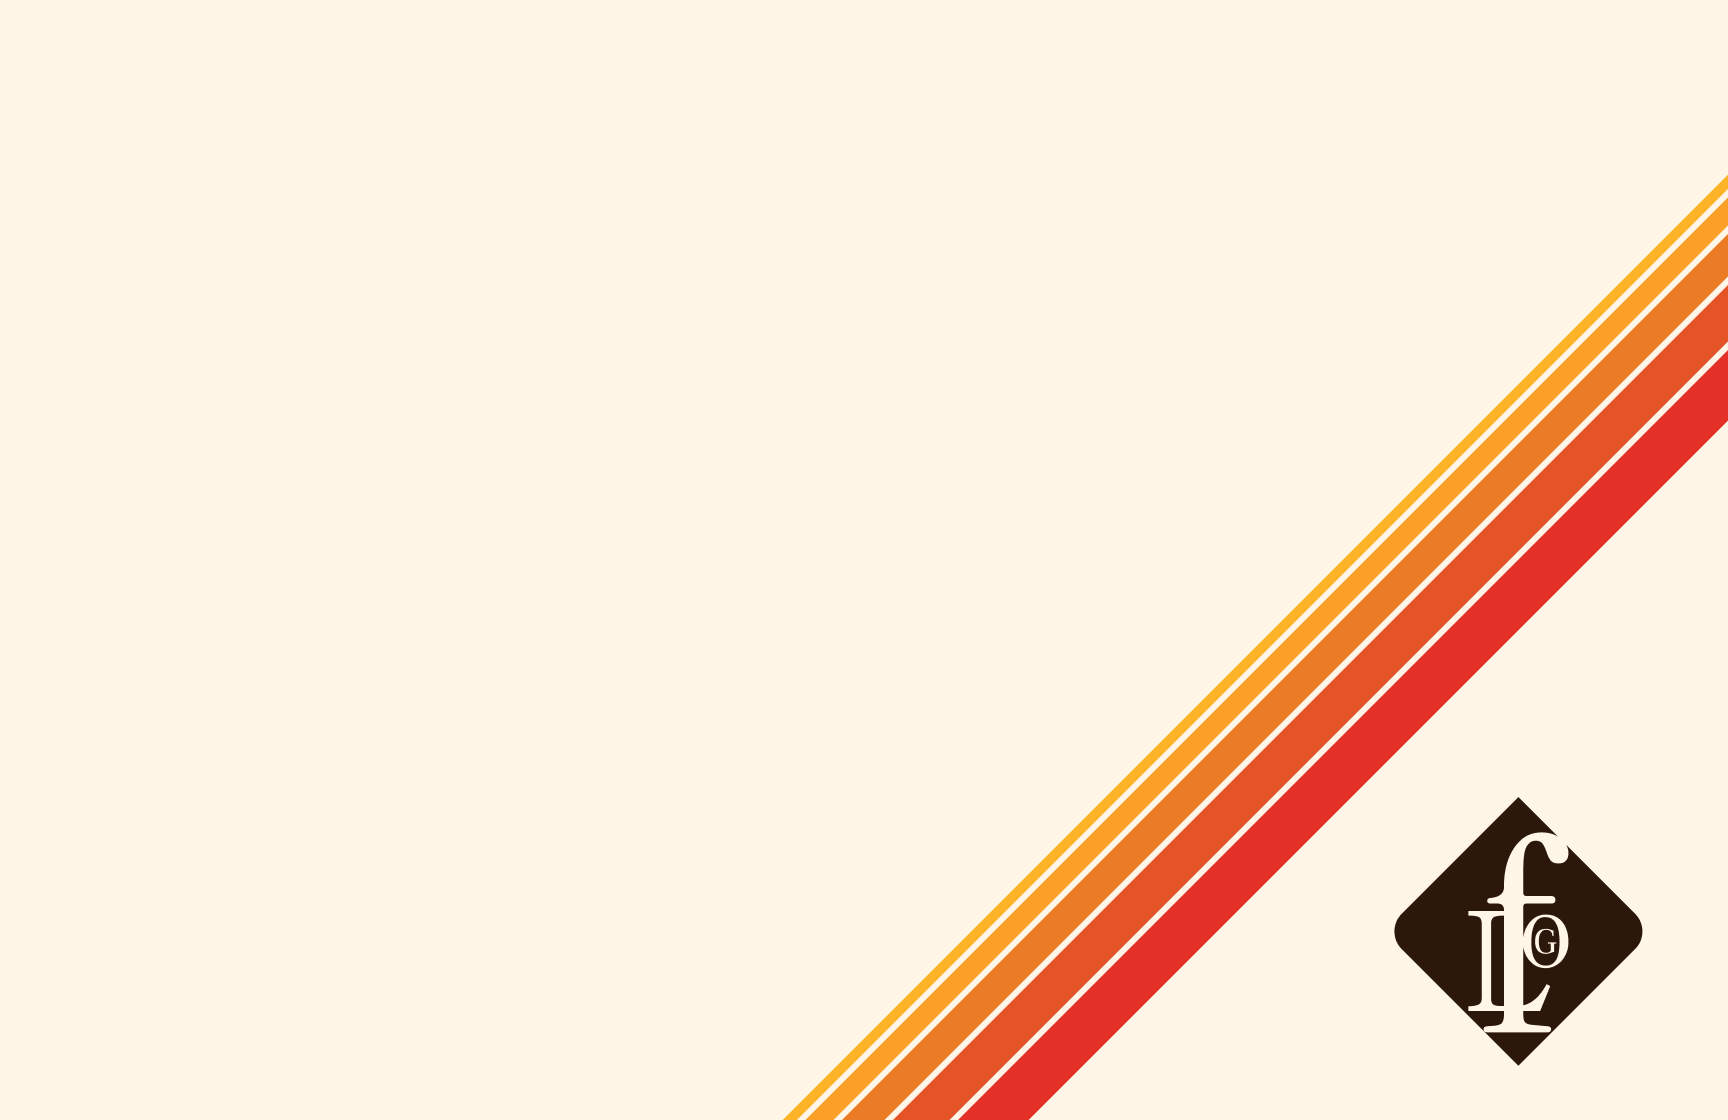
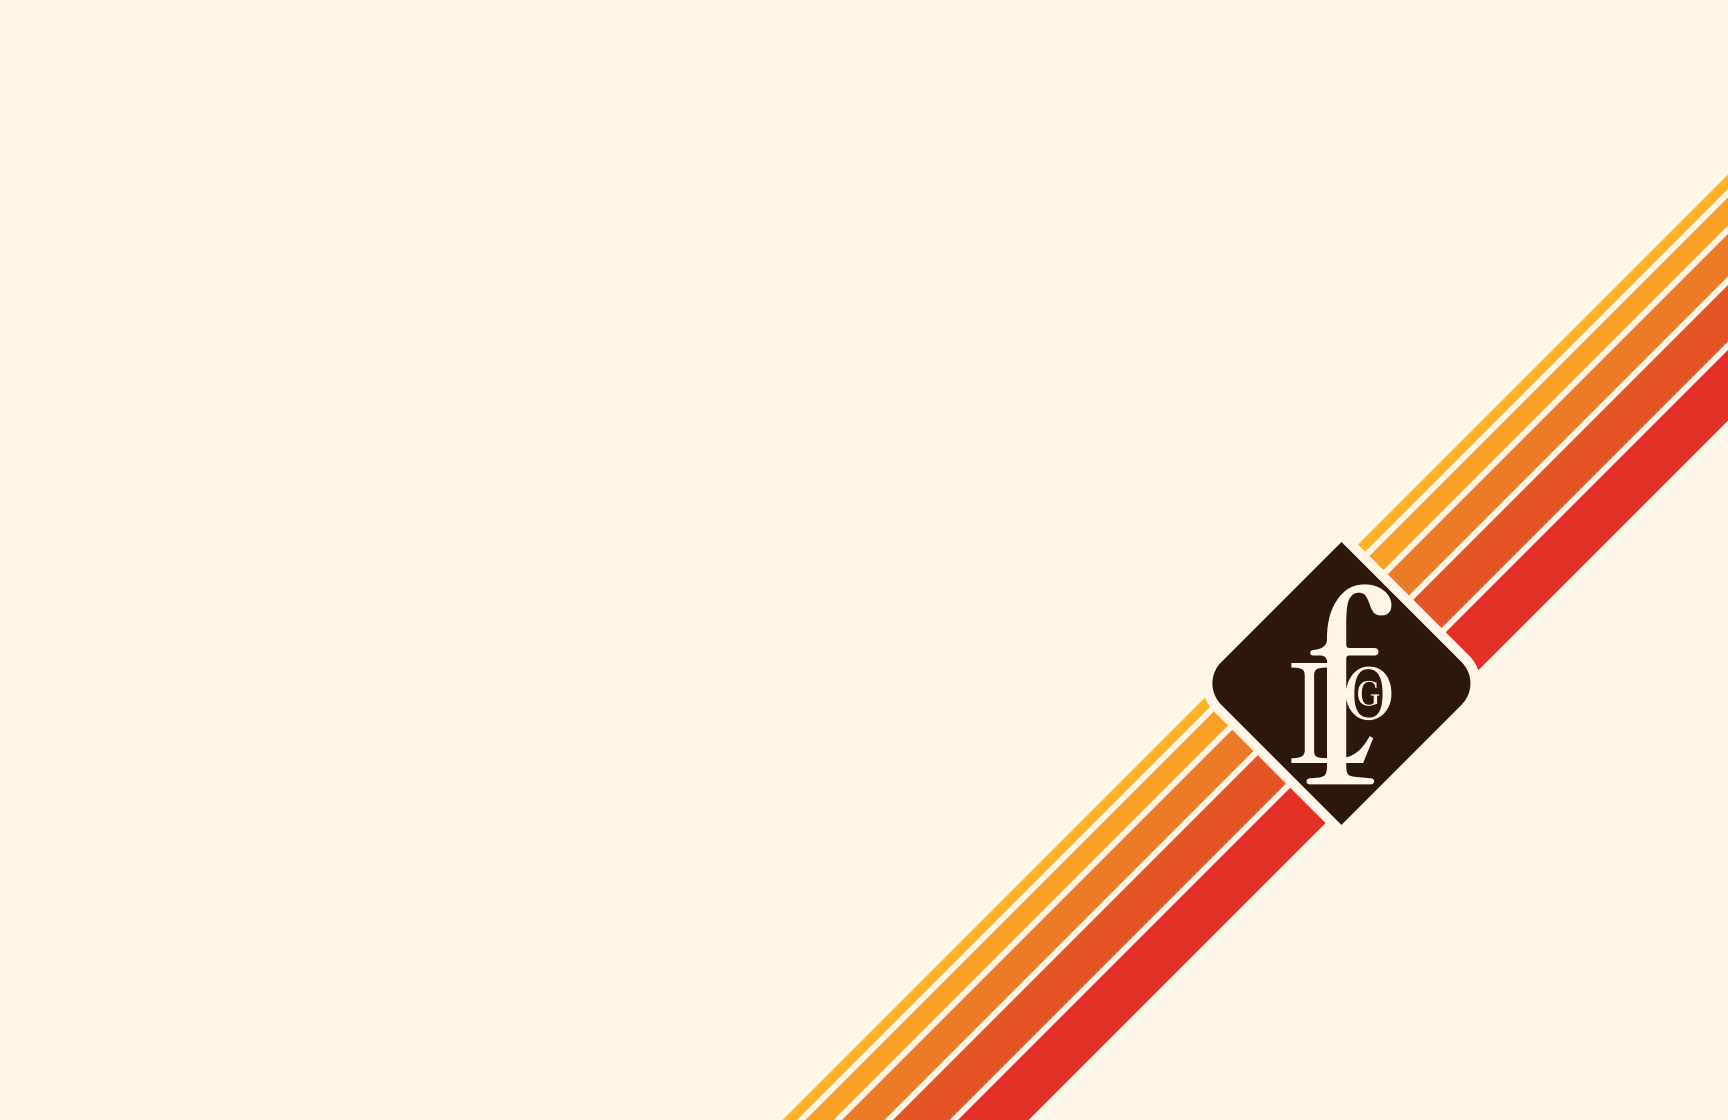
COMMIT

Changed region(s): [[0.6875, 0.4688, 0.875, 0.75], [0.7812, 0.7188, 0.9688, 0.9688]]

diff --git a/Index.html b/Index.html
@@ -27,8 +27,14 @@
 
     </header>
 
-    <main class="background-hero" >
-        <section>
+    <main>
+        <section class="background-hero">
+
+            <div>
+                <h3>Bienvenue sur mon portfolio !</h3>
+                <h1>Je donne vie à <br>vos idées</br> </h1>
+                <h2>Je travail avec vous pour construire vos projets <br>numérique.</br> </h2>
+            </div>
 
         </section>
 

diff --git a/styles.css b/styles.css
@@ -120,7 +120,7 @@ h3{
 ---------------------------------*/
 .background-hero {
     background-image: url(asset/Background_Hero.png);
-    background-position: top -50px;
+    background-position: center;
     background-size: cover;
     height: 100vh;
     background-repeat: no-repeat;